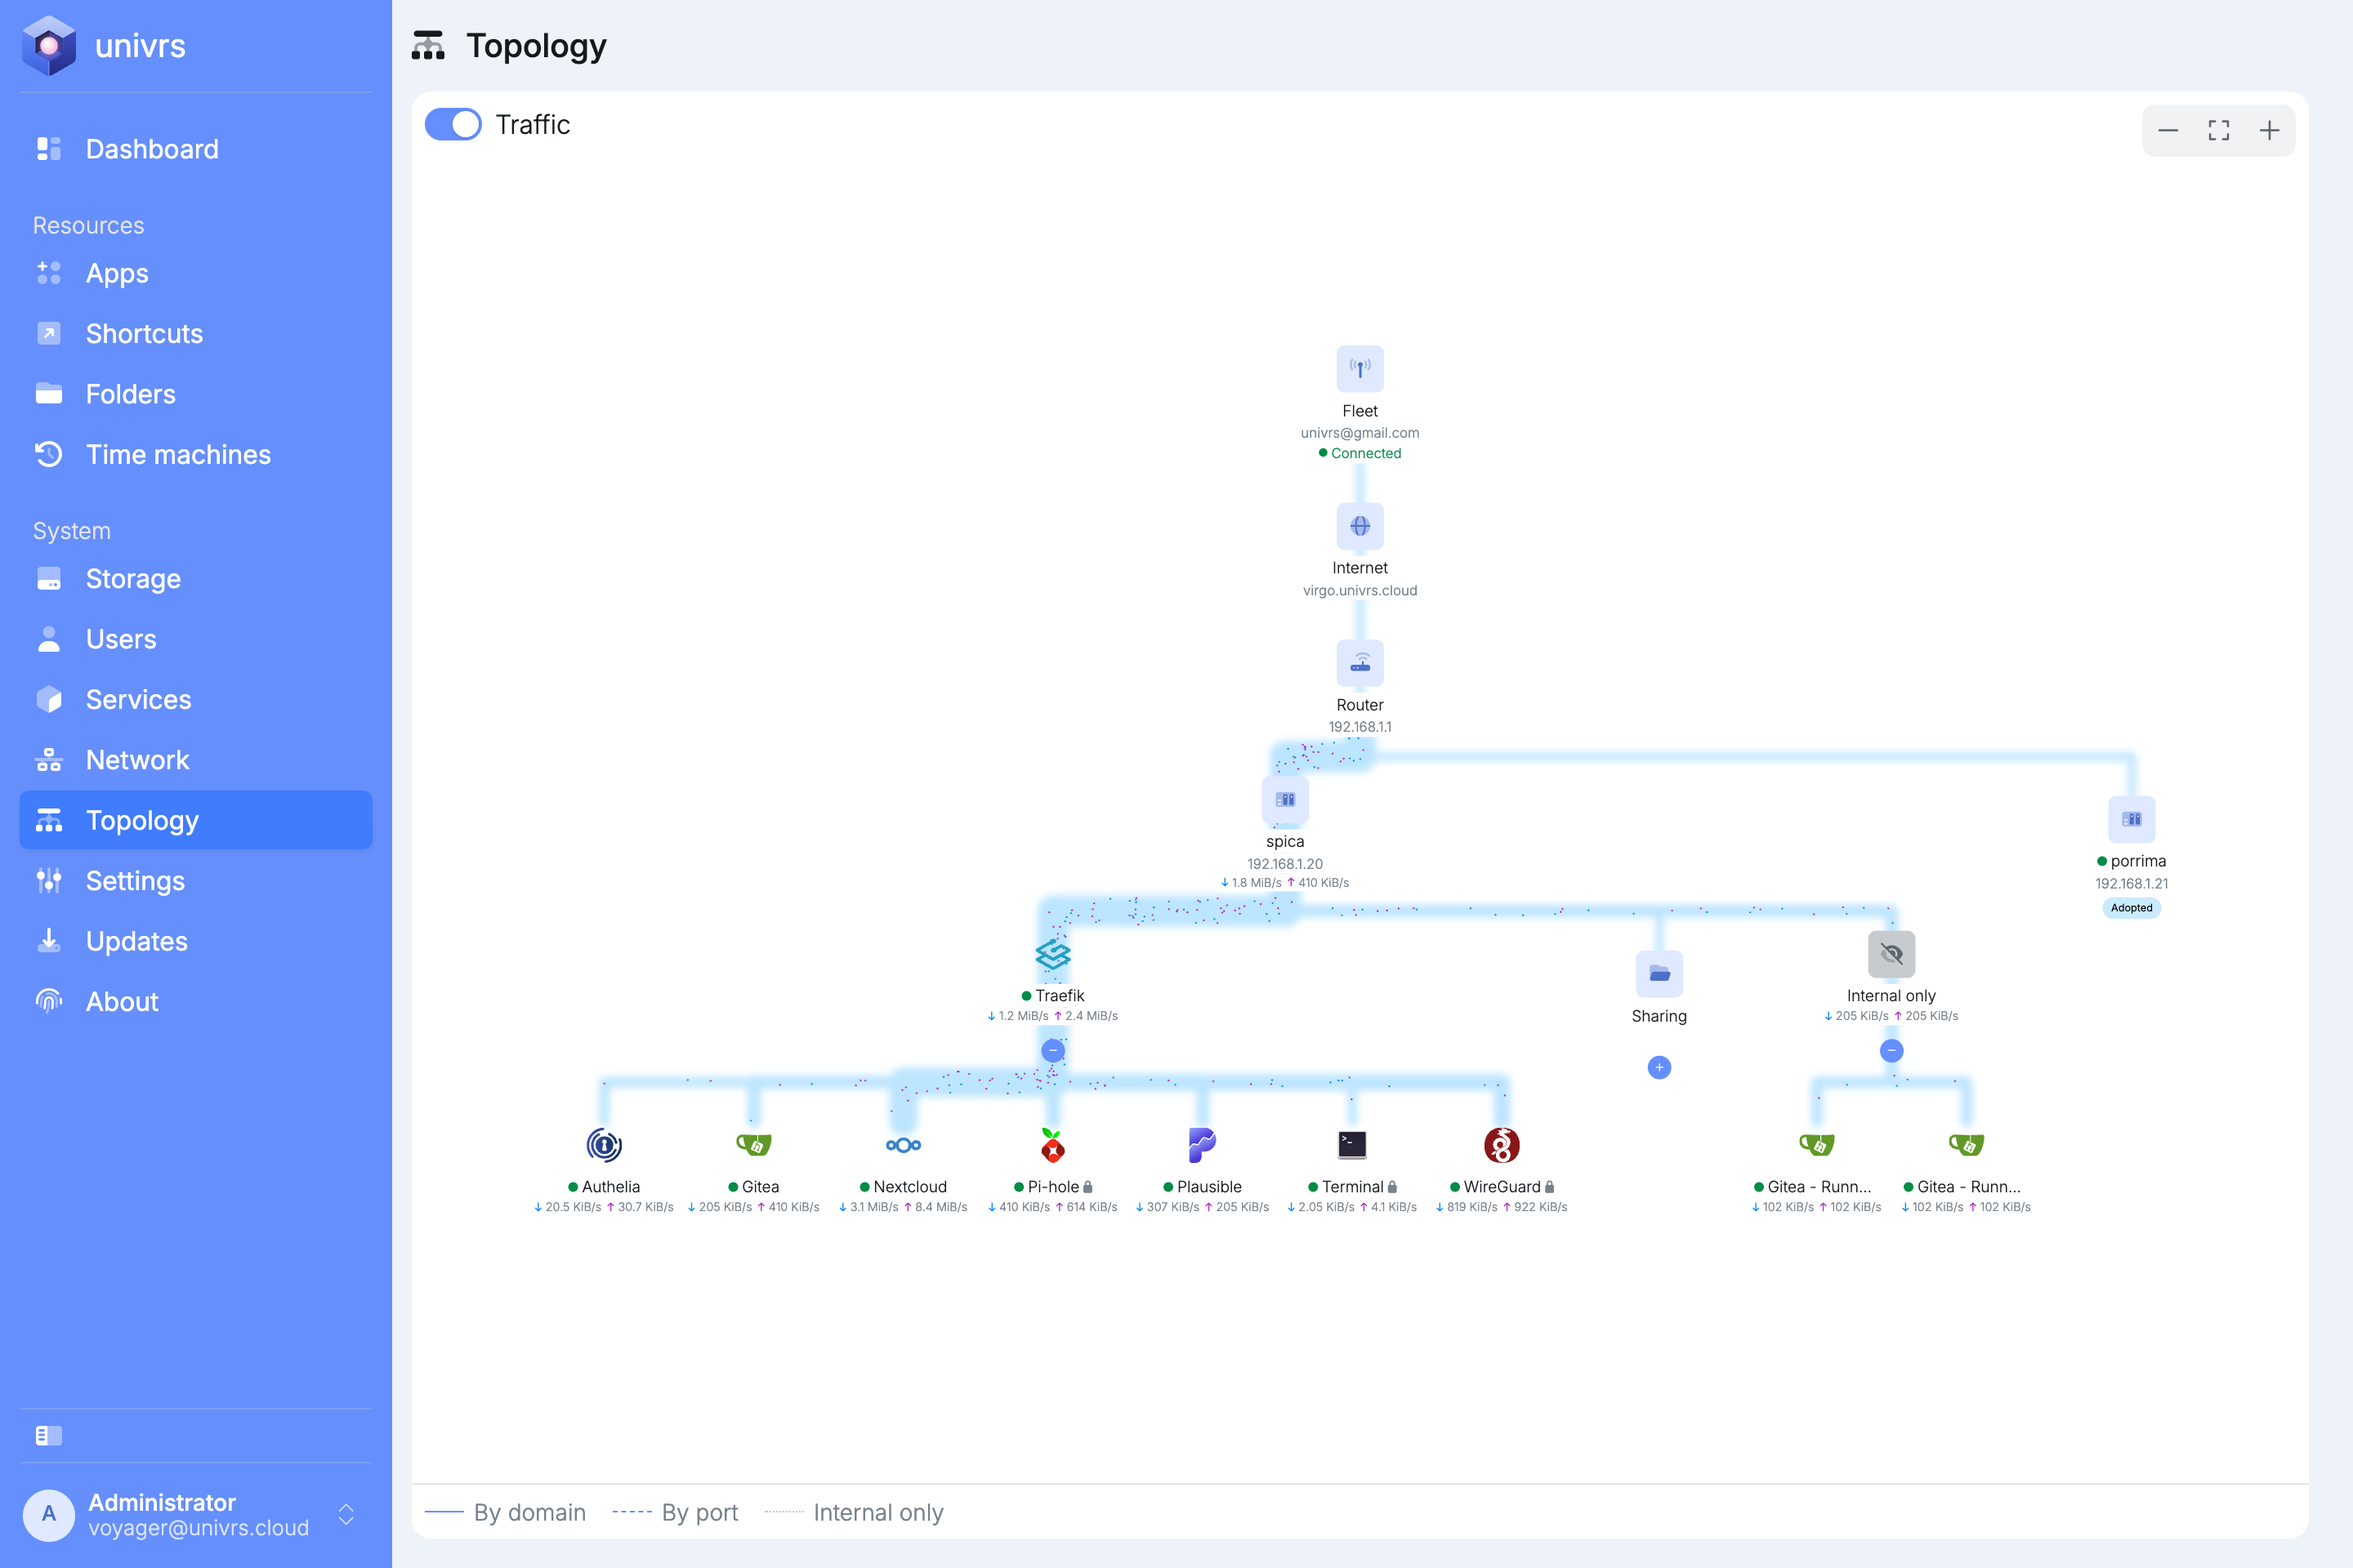
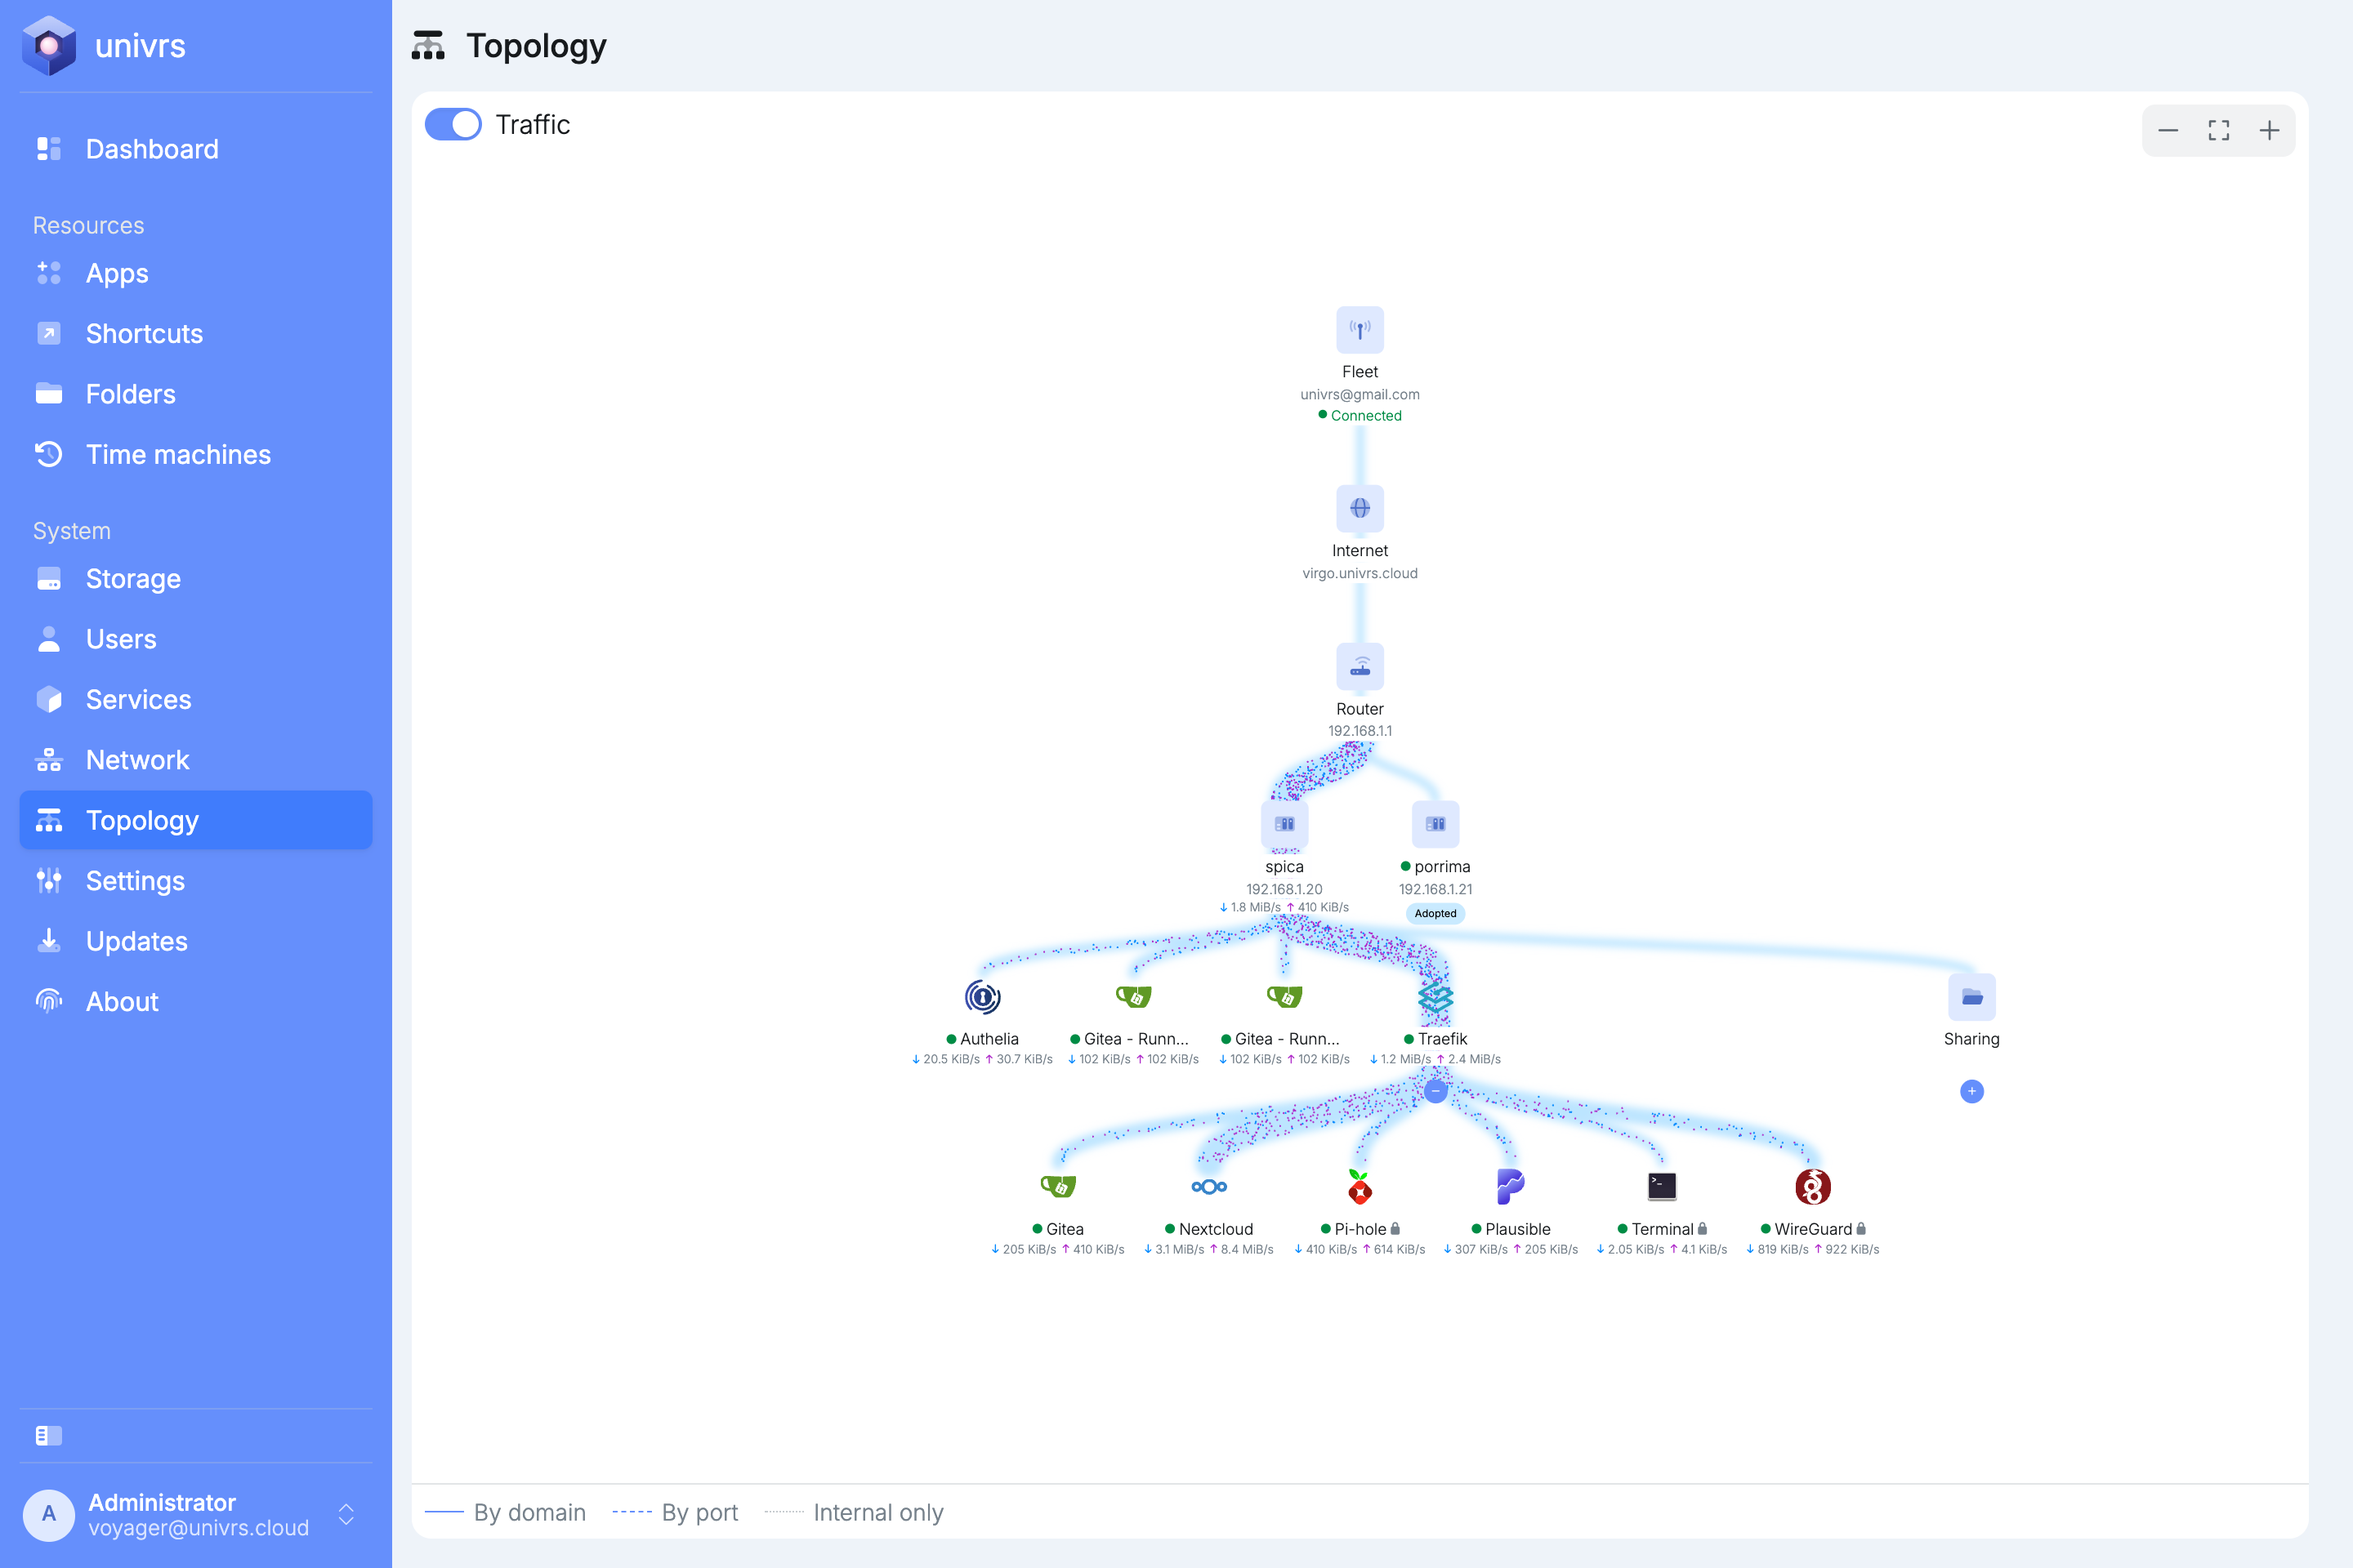
docs(management): refresh topology screenshots for curved links and placement of unreachable apps

Changed region(s): [[0.25, 0.4375, 0.9375, 0.8125], [0.5625, 0.1875, 0.5938, 0.375]]

diff --git a/src/content/docs/management/system/topology.md b/src/content/docs/management/system/topology.md
@@ -42,6 +42,8 @@ Shortcuts set to **Use proxy** appear among the apps, with an arrow to the addre
 
 Apps reached by port show their ports. **Host network** means the app shares the node's own network and can use any of its ports.
 
+Apps that nothing on your network can reach hang straight under the node, next to **Traefik**. **Authelia** is one of them: only Traefik talks to it, to check logins.
+
 The dot in front of an app's name shows whether it is running: green when all of it is, orange when only part of it is, red when none of it is. Hover over the dot to see how many of its parts are running.
 
 ## Sharing
